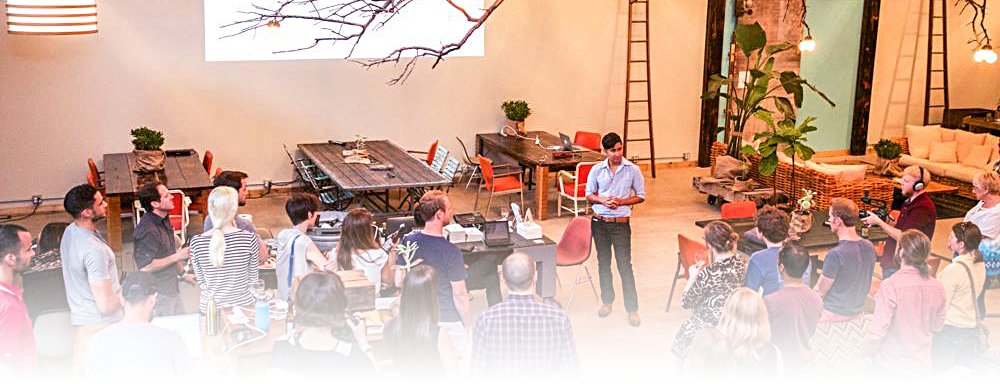
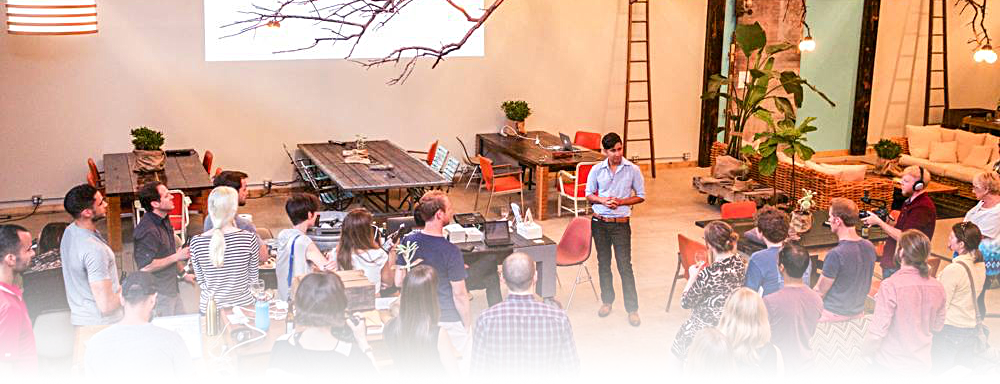
added font ready for online, plus higher-res top photo

diff --git a/docs/index.html b/docs/index.html
@@ -69,17 +69,9 @@ San Francisco<?xml version="1.0" encoding="UTF-8" standalone="no"?>
 
 
 
-	<div class='thumb'>
-	<a href="https://landemic.io"><img src='./thumbs/landemic.png' /></a>
-	<p>Tiles on Landemic</p>
-	</div>
-
-
 	<a href="https://medium.com/landemic/how-landemic-works-6b55d3a2f818">Landemic</a>: Founded and sold this early NFT startup. NFTs are digital collectibles based on the blockchain.
 
 	<p/>
-
-
 
 
 	<a href="https://titanseal.com/">Titan Seal</a>: Founded this blockchain-based notary used by government agencies
@@ -89,21 +81,13 @@ San Francisco<?xml version="1.0" encoding="UTF-8" standalone="no"?>
 
 <p/>
 
-</ul>
-
-
-<h2>Awards</h2>
-
-
-
-<ul>
+</ul><h2>Awards</h2><ul>
 <li>
 	<a href="https://www.kaggle.com/c/birdclef-2021/discussion/243343">BirdCLEF 2021</a>: Silver medalist in the Kaggle machine learning competition
 
 	</li>
 
 <li>
-
 	<a href="http://ludumdare.com/compo/ludum-dare-24/?action=preview&uid=14735">Ludum Dare 24</a>: Bronze medalist for the game Darwinphony
 
 	</li>
@@ -113,19 +97,9 @@ San Francisco<?xml version="1.0" encoding="UTF-8" standalone="no"?>
 
 	</li>
 
-</ul>
-
-<div class='thumb'>
-<a href="https://landemic.io"><img src='./thumbs/hallmark.png' /></a>
-<p>Keynote for <i>Dear Hannah</i> at <a href="https://vimeo.com/41340984">Hallmark's Trends Week</a></p>
-</div>
-
-
-
-<h2>Books</h2><ul>
-
+</ul><h2>Books</h2><ul>
 <li>
-	<a href="http://www.amazon.com/gp/product/1500392243/?tag=dhbany-20">Dear Hannah</a>: A cautionary tale about self-improvement.
+	<a href="http://www.amazon.com/gp/product/1500392243/?tag=dhbany-20">Dear Hannah</a>: A cautionary tale about self-improvement. Watch my keynote at <a href="https://vimeo.com/41340984">Hallmark's Trends Week</a>.
 
 	</li>
 
@@ -160,30 +134,7 @@ San Francisco<?xml version="1.0" encoding="UTF-8" standalone="no"?>
 
 	</li>
 
-</ul>
-
-<!-- <div class='thumb'>
-<a href="https://landemic.io"><img src='./thumbs/darwinphony.png' /></a>
-<p>Screenshot from Darwinphony</p>
-</div>
- -->
-
-
-<div class='thumb'>
-<a href="https://landemic.io"><img src='./thumbs/amazon.png' /></a>
-<p>From "Amazon's Second Act"</p>
-</div>
-
-
-
-<h2>Essays</h2>
-
-
-
-<ul>
-
-
-
+</ul><h2>Essays</h2><ul>
 <li>
 	<a href="https://medium.com/@philipkd/amazons-second-act-5a13410c053a?source=friends_link&sk=8821ed452e8f21ce36dd804ec037871a">Amazon's Second Act</a>: Featured by Medium's editors
 
@@ -210,9 +161,6 @@ San Francisco<?xml version="1.0" encoding="UTF-8" standalone="no"?>
 	</li>
 
 </ul><h2>Design</h2><ul>
-
-
-
 <li>
 	<a href="http://realorfake3d.com/">RealOrFake3D</a>: Reference site used by movie critics
 

diff --git a/docs/css/styles.css b/docs/css/styles.css
@@ -13,7 +13,24 @@ img {
   width: 640px;
   margin: 80px auto;
   text-align: left;
-  line-height: 150%;
+}
+.thumb {
+  float: right;
+  display: inline;
+  width: 275px;
+  padding-left: 10px;
+  text-align: center;
+  font-size: 16px;
+}
+.thumb a {
+  border-bottom: 0;
+}
+.thumb p {
+  margin-top: 7px;
+}
+.thumb img {
+  border-radius: 10px;
+  width: 100%;
 }
 #contact {
   color: #535357;
@@ -86,8 +103,9 @@ h1 {
   font-weight: 200;
   font-size: 45px;
   text-align: center;
-  margin-top: 20px;
-  margin-bottom: 20px;
+  margin-top: 10px;
+  margin-bottom: 10px;
+  font-family: 'Helvetica Neue', 'Roboto';
 }
 h2 {
   font-size: 24px;
@@ -104,6 +122,9 @@ a:visited {
 }
 a:link {
   color: #23629f;
+}
+#resume {
+  line-height: 1.4;
 }
 @media only screen and (max-width: 680px) {
   #main {

diff --git a/docs/css/styles.scss b/docs/css/styles.scss
@@ -10,7 +10,7 @@ body {
 img { border: 0px }
 
 #main {
-    width: 740px;
+    width: 640px;
     margin: 80px auto;
     text-align: left;
 }
@@ -79,7 +79,7 @@ img { border: 0px }
     }
     text-align: center;
     font-size: 18px;
-    margin-bottom: 40px;
+    margin-bottom: 30px;
 }
 
 img#cover {

diff --git a/docs/index.php b/docs/index.php
@@ -6,6 +6,11 @@
 <title>Philip Dhingra</title>
 
 <link rel="shortcut icon" href="favicon.ico">
+
+<style>
+@import url('https://fonts.googleapis.com/css2?family=Roboto:wght@100&display=swap');
+</style>
+
 <link rel="stylesheet" href="/css/styles.css">
 
 <script type="text/javascript">
